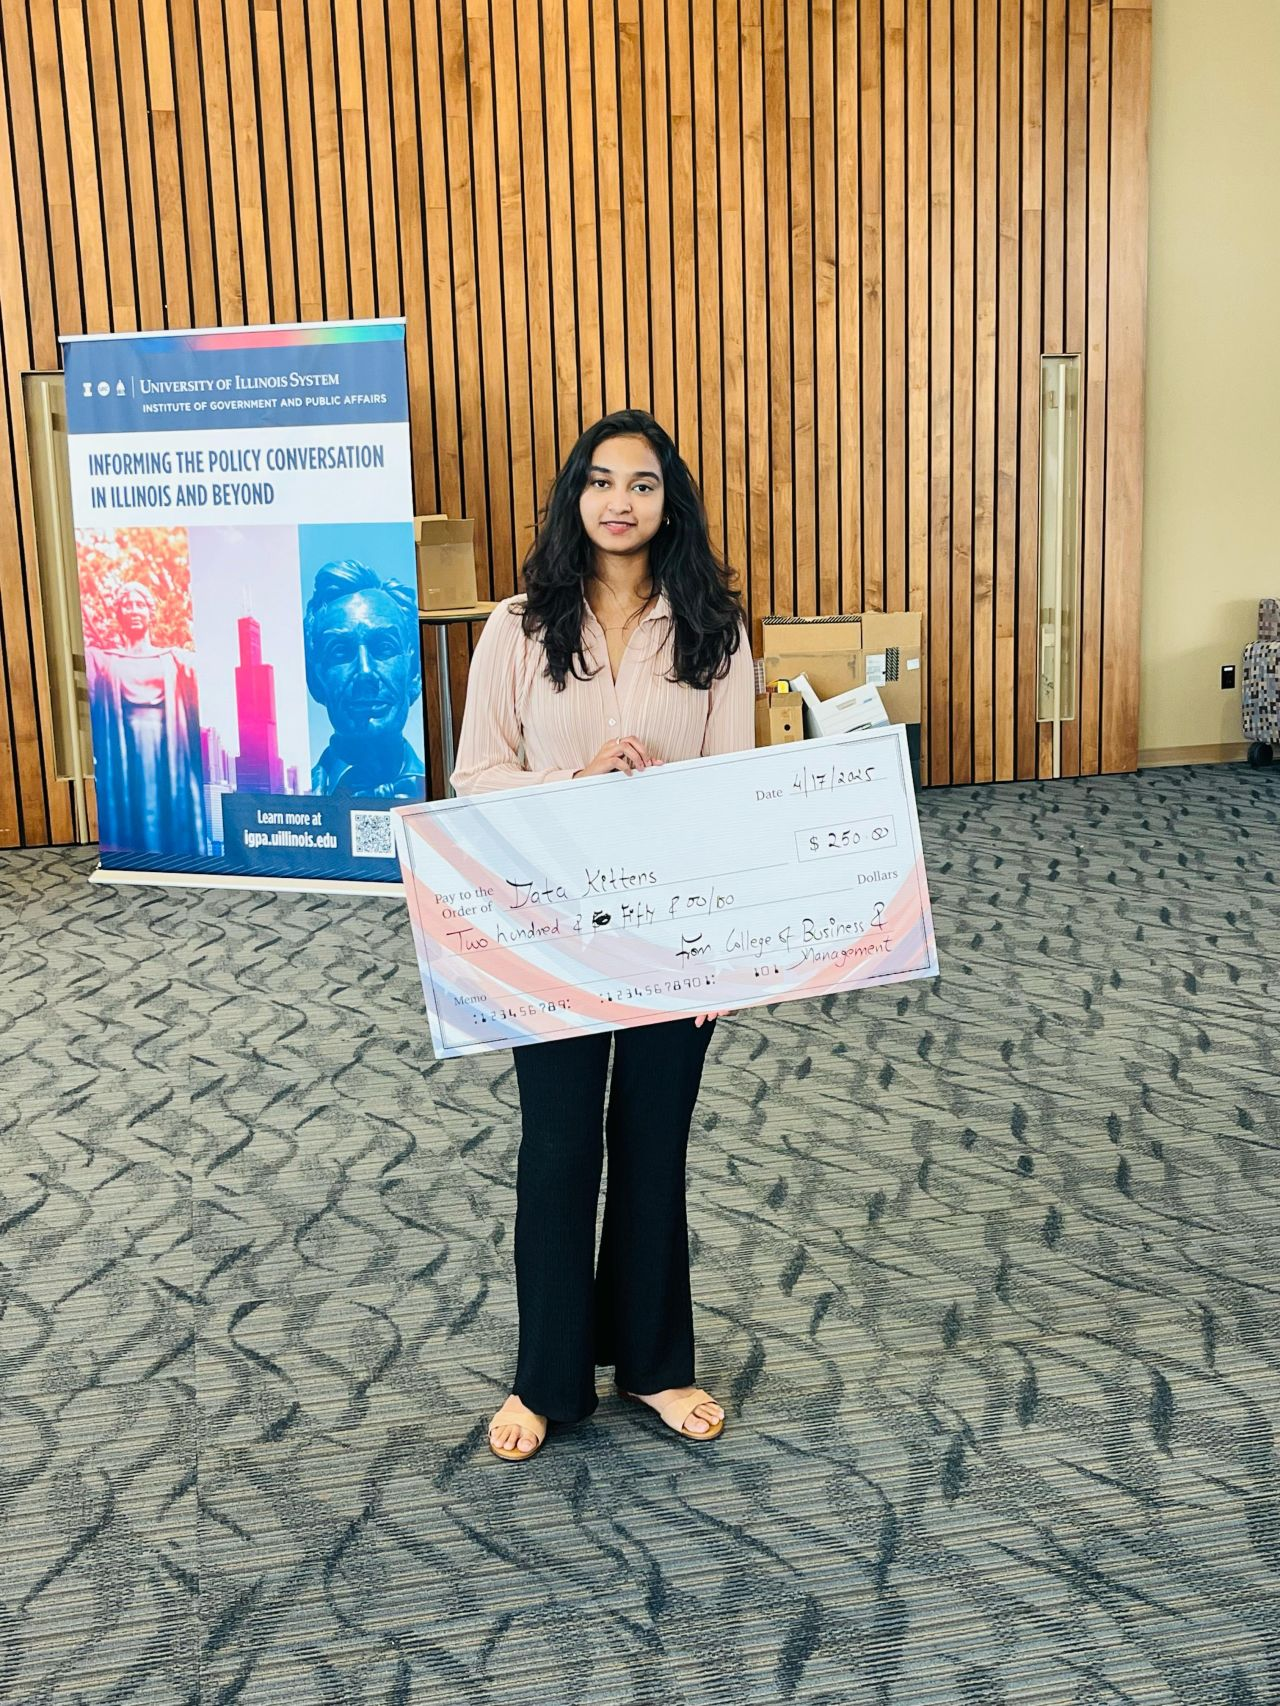
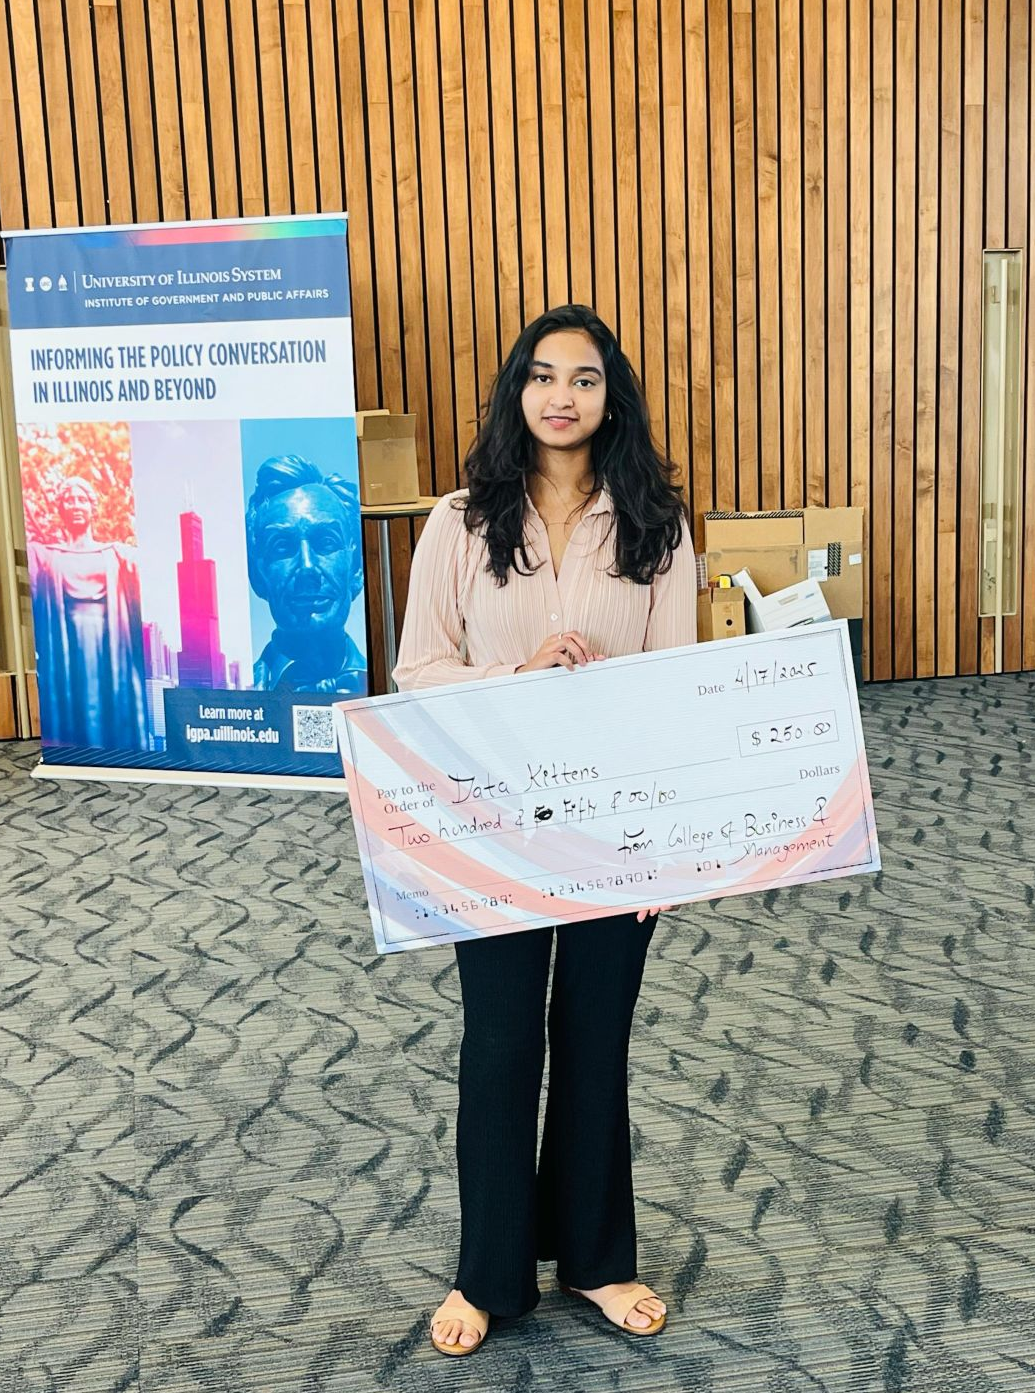
webp

diff --git a/components/Hero.jsx b/components/Hero.jsx
@@ -35,13 +35,13 @@ export default function Hero() {
                                 Passionate about building secure, scalable software solutions and protecting digital identities.
                             </p>
 
-                            <div className="flex flex-col sm:flex-row gap-4 justify-center lg:justify-start">
+                            <div className="flex flex-row gap-4 justify-center lg:justify-start">
                                 <a href="#projects" className="px-8 py-3.5 rounded-lg bg-purple-600 text-white font-medium hover:bg-purple-500 transition-all shadow-lg shadow-purple-900/30">
-                                    View Portfolio
+                                    Projects
                                 </a>
                                 <a href="/assets/Aishwarya_Madapati_resume.pdf" download className="px-8 py-3.5 rounded-lg bg-white/5 text-slate-200 border border-white/10 font-medium hover:bg-white/10 transition-all flex items-center justify-center gap-2 backdrop-blur-sm">
                                     <Download size={18} />
-                                    Download Resume
+                                    Resume
                                 </a>
                             </div>
                         </FadeIn>
@@ -52,12 +52,12 @@ export default function Hero() {
                             <div className="relative rounded-2xl overflow-hidden shadow-2xl shadow-purple-900/20 aspect-[4/5] max-w-md mx-auto ring-4 ring-white/5 bg-slate-900">
                                 <div className="absolute inset-0 bg-gradient-to-tr from-purple-900/40 to-transparent z-10 mix-blend-overlay"></div>
                                 <img
-                                    src="/assets/kitty.png"
+                                    src="/assets/fancy.webp"
                                     alt="Aishwarya Madapati"
                                     className="w-full h-full object-cover"
                                 />
                             </div>
-                            <div className="absolute -bottom-6 -left-6 bg-slate-900/90 backdrop-blur-md p-4 rounded-xl shadow-xl border border-white/10 z-20 hidden sm:block">
+                            <div className="absolute -bottom-6 -left-6 bg-slate-900/90 backdrop-blur-md p-4 rounded-xl shadow-xl border border-white/10 z-20">
                                 <div className="flex items-center gap-3">
                                     <div className="p-2 bg-green-500/10 rounded-lg">
                                         <Shield className="text-green-400" size={20} />

diff --git a/components/Certifications.jsx b/components/Certifications.jsx
@@ -89,7 +89,7 @@ export default function Certifications() {
                             <div className="absolute inset-0 bg-gradient-to-tr from-purple-600/20 to-pink-600/20 rounded-2xl blur-xl group-hover:blur-2xl transition-all duration-500 opacity-50"></div>
                             <div className="relative rounded-2xl overflow-hidden border border-white/10 shadow-2xl shadow-purple-900/20 aspect-[3/4]">
                                 <img
-                                    src="/assets/data-kitten.png"
+                                    src="/assets/data-kitten.webp"
                                     alt="Learning & Growth"
                                     className="w-full h-full object-cover"
                                 />

diff --git a/components/Footer.jsx b/components/Footer.jsx
@@ -5,7 +5,7 @@ export default function Footer() {
         <footer className="bg-slate-950/50 backdrop-blur-md py-8 border-t border-white/10">
             <div className="max-w-7xl mx-auto px-4 text-center">
                 <p className="text-slate-500 text-sm font-medium">
-                    © {new Date().getFullYear()} Aishwarya Madapati. Built with React & Tailwind CSS.
+                    © {new Date().getFullYear()} Aishwarya Madapati. Built with React/Next.js & Tailwind CSS.
                 </p>
             </div>
         </footer>
